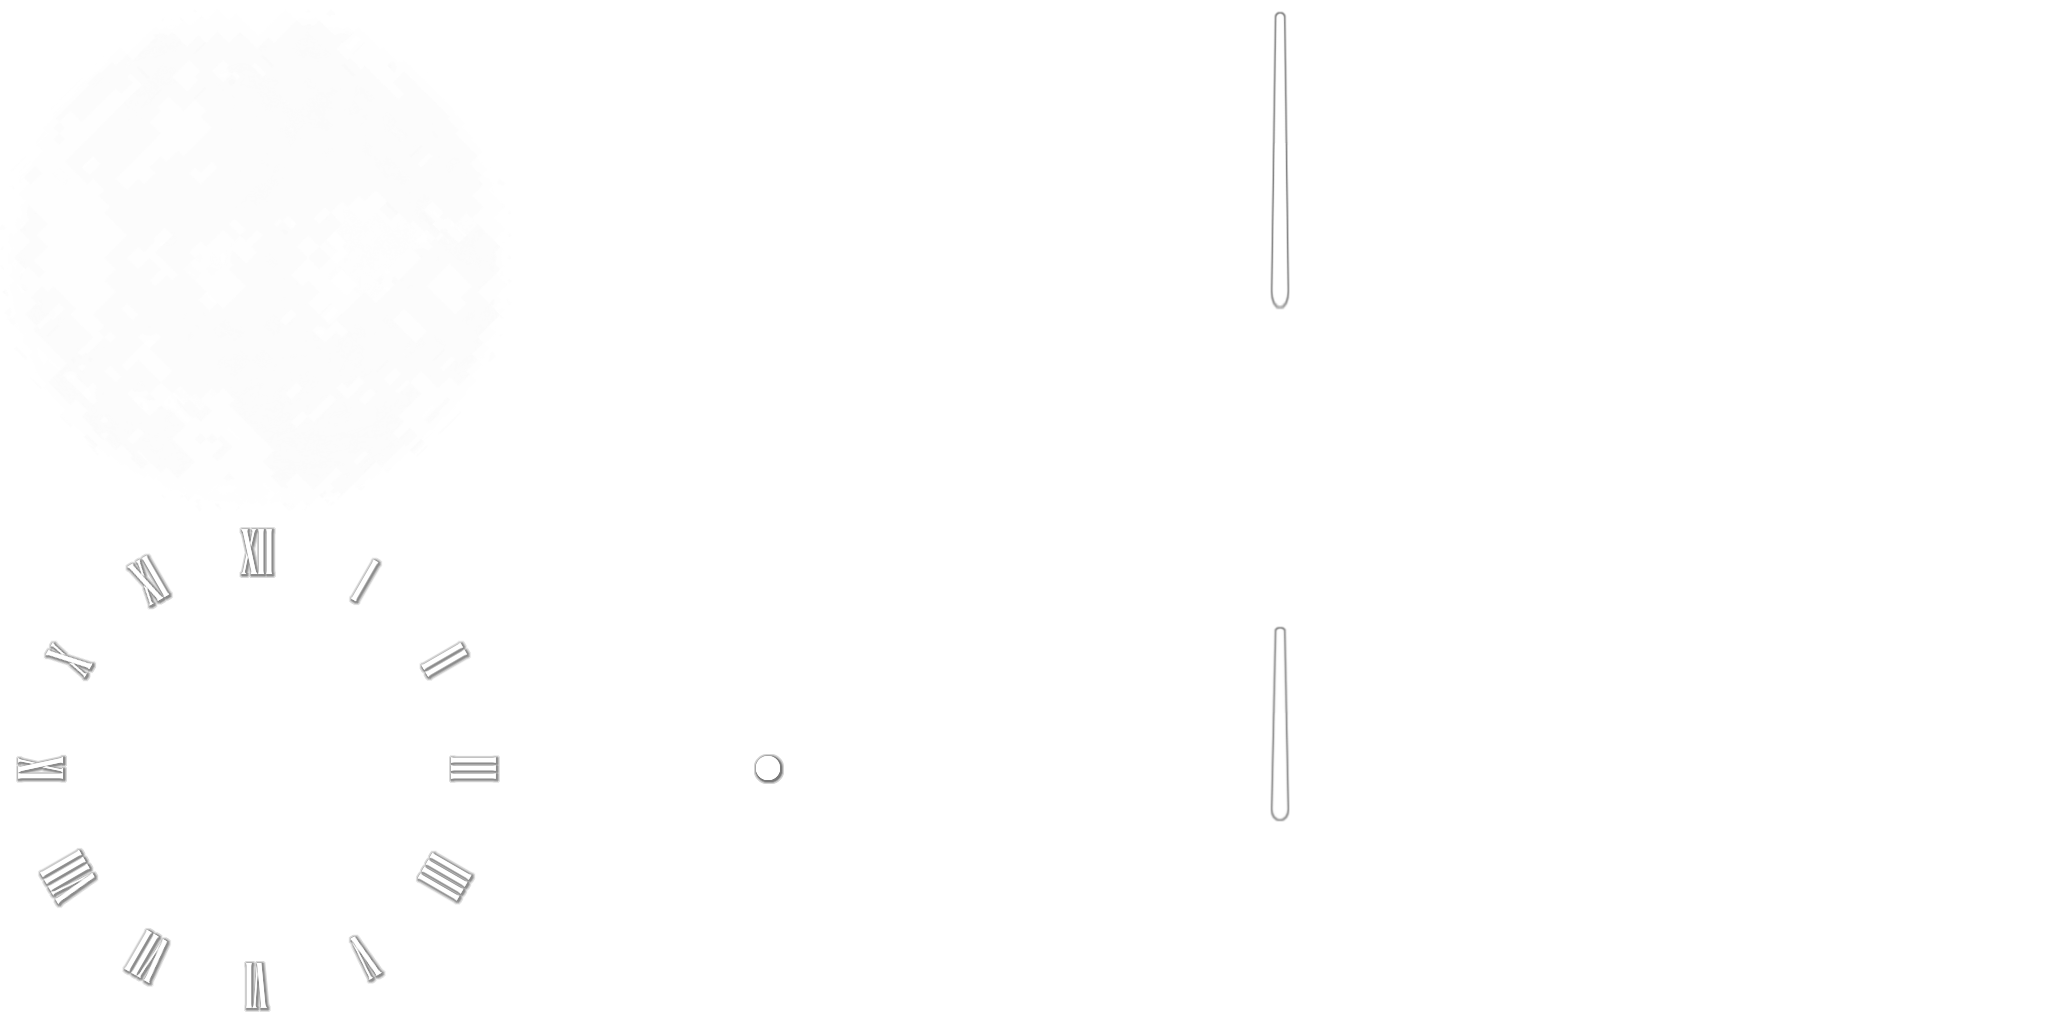
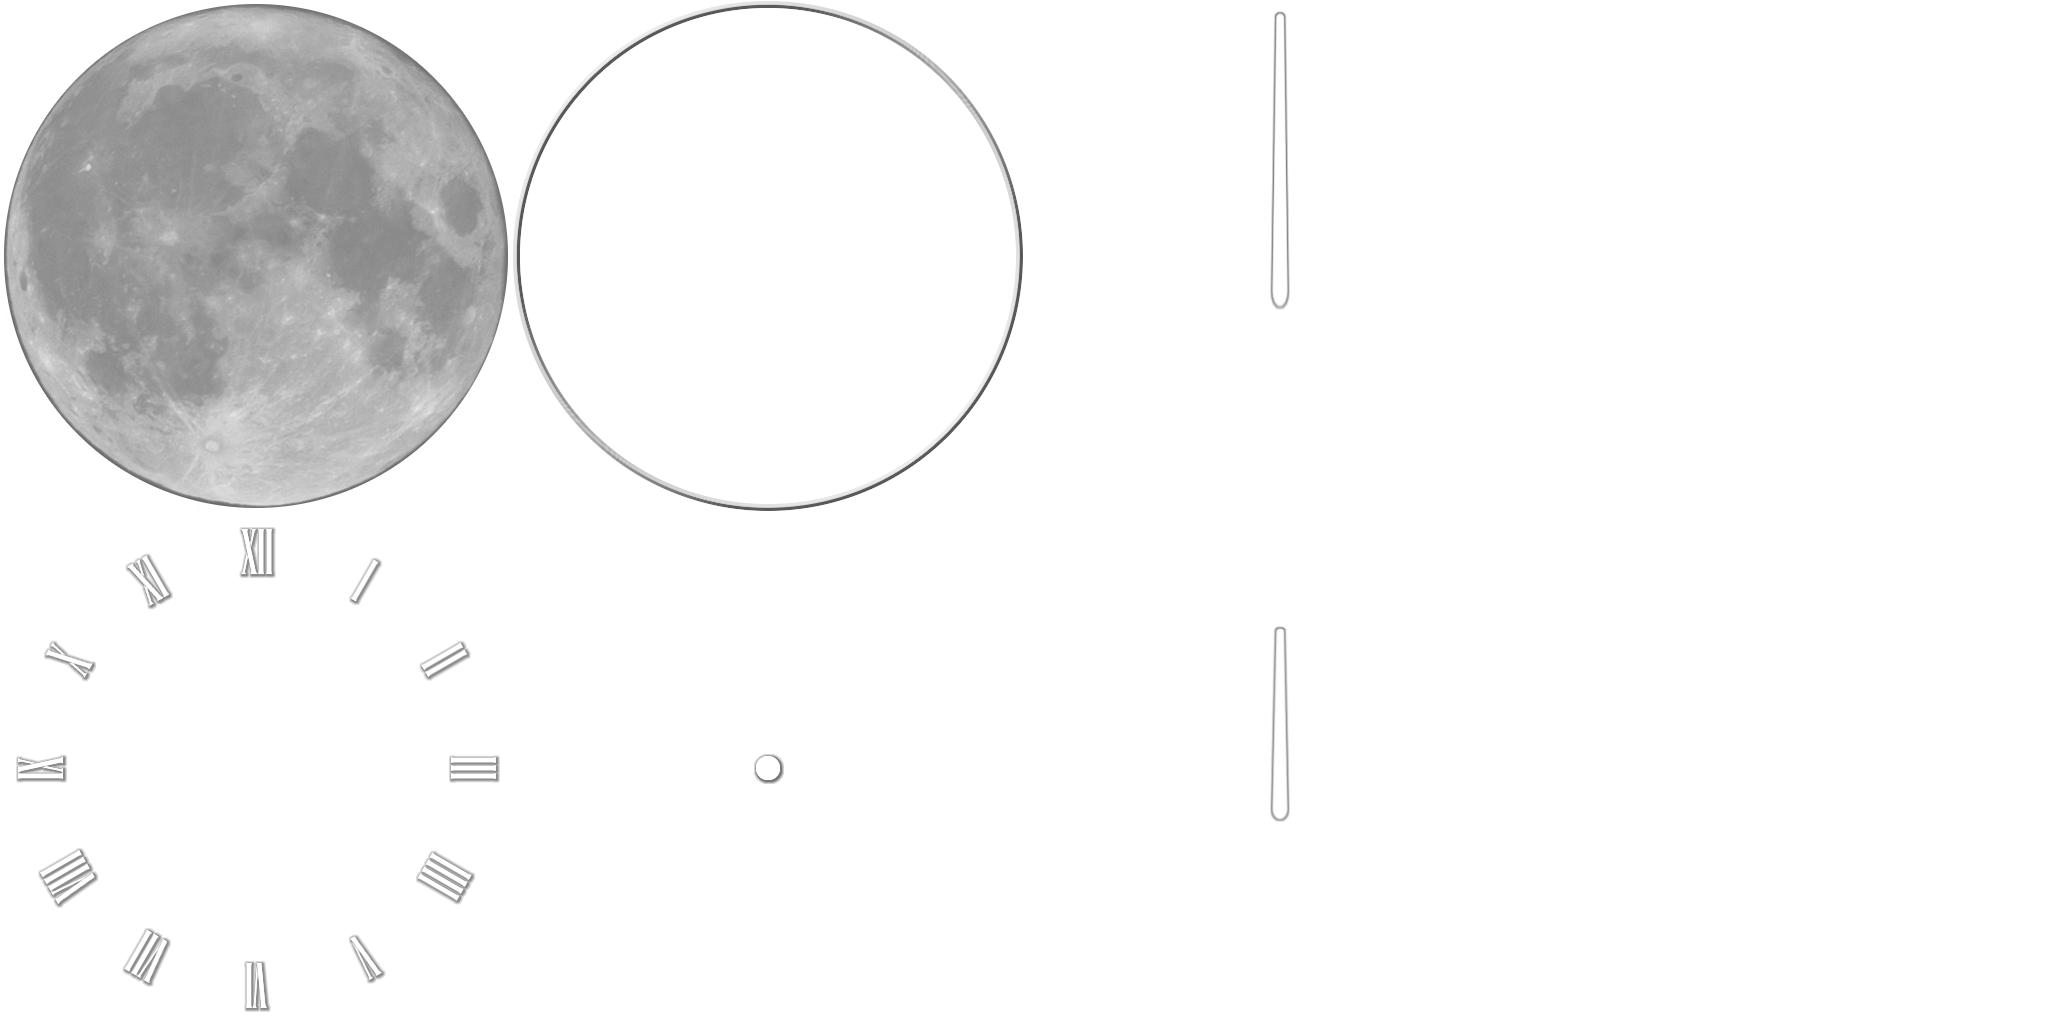
卓の真ん中のスペースに時計を移動

diff --git a/graphic/scenes/table/clock.cpp b/graphic/scenes/table/clock.cpp
@@ -24,13 +24,13 @@ void GameTableScreen::Clock::setClockMatrix(TransformMatrix* matrix, float angle
 	D3DXMatrixMultiply(matrix, matrix, &tmpMatrix);
 	D3DXMatrixTranslation(&tmpMatrix, -clockPosX * Geometry::WindowScale(), -clockPosY * Geometry::WindowScale(), 0);
 	D3DXMatrixMultiply(matrix, matrix, &tmpMatrix);
-	D3DXMatrixTranslation(&tmpMatrix, -256 * Geometry::WindowScale(), -256 * Geometry::WindowScale(), 0);
+	D3DXMatrixTranslation(&tmpMatrix, -((float)clockDiameter / 2.0f) * Geometry::WindowScale(), -((float)clockDiameter / 2.0f) * Geometry::WindowScale(), 0);
 	D3DXMatrixMultiply(matrix, matrix, &tmpMatrix);
 	D3DXMatrixRotationZ(&tmpMatrix, angle);
 	D3DXMatrixMultiply(matrix, matrix, &tmpMatrix);
-	D3DXMatrixTranslation(&tmpMatrix, 256 * Geometry::WindowScale(), 256 * Geometry::WindowScale(), 0);
+	D3DXMatrixTranslation(&tmpMatrix, ((float)clockDiameter / 2.0f) * Geometry::WindowScale(), ((float)clockDiameter / 2.0f) * Geometry::WindowScale(), 0);
 	D3DXMatrixMultiply(matrix, matrix, &tmpMatrix);
-	D3DXMatrixScaling(&tmpMatrix, 0.625f, 0.625f, 0.0f);
+	D3DXMatrixScaling(&tmpMatrix, (float)scaledClockDiameter / (float)clockDiameter, (float)scaledClockDiameter / (float)clockDiameter, 0.0f);
 	D3DXMatrixMultiply(matrix, matrix, &tmpMatrix);
 	D3DXMatrixTranslation(&tmpMatrix, clockPosX * Geometry::WindowScale(), clockPosY * Geometry::WindowScale(), 0);
 	D3DXMatrixMultiply(matrix, matrix, &tmpMatrix);
@@ -43,16 +43,16 @@ void GameTableScreen::Clock::renderMoon() {
 	setClockMatrix(&matrix);
 
 	SpriteRenderer::instantiate(parent->caller->getDevice())->ShowSprite(
-		myTexture, clockPosX, clockPosY, 512, 512, 0xffffffff, &rect, 0, 0, &matrix);
+		myTexture, clockPosX, clockPosY, clockDiameter, clockDiameter, 0xffffffff, &rect, 0, 0, &matrix);
 }
 
 void GameTableScreen::Clock::renderShadow() {
 	struct Vertex {float x, y, z; uint32_t color;};
 
 	const float Top = ((float)clockPosY + 2.0f) * Geometry::WindowScale(),
-		Bottom = ((float)clockPosY + 512.0f * 0.625f - 2.0f) * Geometry::WindowScale(),
+		Bottom = ((float)clockPosY + (float)clockDiameter * ((float)scaledClockDiameter / (float)clockDiameter) - 2.0f) * Geometry::WindowScale(),
 		Left = ((float)clockPosX + 2.0f) * Geometry::WindowScale(),
-		Right = ((float)clockPosX + 512.0f * 0.625f - 2.0f) * Geometry::WindowScale(),
+		Right = ((float)clockPosX + (float)clockDiameter * ((float)scaledClockDiameter / (float)clockDiameter) - 2.0f) * Geometry::WindowScale(),
 		CenterX = (Left + Right) / 2.0f,
 		CenterY = (Top + Bottom) / 2.0f,
 		Radius = CenterX - Left;
@@ -92,7 +92,7 @@ void GameTableScreen::Clock::renderPanel() {
 	setClockMatrix(&matrix);
 
 	SpriteRenderer::instantiate(parent->caller->getDevice())->ShowSprite(
-		myTexture, clockPosX, clockPosY, 512, 512, 0xffffffff, &rect, 0, 0, &matrix);
+		myTexture, clockPosX, clockPosY, clockDiameter, clockDiameter, 0xffffffff, &rect, 0, 0, &matrix);
 }
 
 void GameTableScreen::Clock::renderHour() {
@@ -108,7 +108,7 @@ void GameTableScreen::Clock::renderHour() {
 	setClockMatrix(&matrix, angle);
 
 	SpriteRenderer::instantiate(parent->caller->getDevice())->ShowSprite(
-		myTexture, clockPosX, clockPosY, 512, 512, 0xffffffff, &rect, 0, 0, &matrix);
+		myTexture, clockPosX, clockPosY, clockDiameter, clockDiameter, 0xffffffff, &rect, 0, 0, &matrix);
 }
 
 void GameTableScreen::Clock::renderMinute() {
@@ -124,7 +124,7 @@ void GameTableScreen::Clock::renderMinute() {
 	setClockMatrix(&matrix, angle);
 
 	SpriteRenderer::instantiate(parent->caller->getDevice())->ShowSprite(
-		myTexture, clockPosX, clockPosY, 512, 512, 0xffffffff, &rect, 0, 0, &matrix);
+		myTexture, clockPosX, clockPosY, clockDiameter, clockDiameter, 0xffffffff, &rect, 0, 0, &matrix);
 }
 
 void GameTableScreen::Clock::renderPin() {
@@ -134,12 +134,23 @@ void GameTableScreen::Clock::renderPin() {
 	setClockMatrix(&matrix);
 
 	SpriteRenderer::instantiate(parent->caller->getDevice())->ShowSprite(
-		myTexture, clockPosX, clockPosY, 512, 512, 0xffffffff, &rect, 0, 0, &matrix);
+		myTexture, clockPosX, clockPosY, clockDiameter, clockDiameter, 0xffffffff, &rect, 0, 0, &matrix);
+}
+
+void GameTableScreen::Clock::renderFrame() {
+	RECT rect = {512, 0, 1024, 512};
+
+	TransformMatrix matrix;
+	setClockMatrix(&matrix);
+
+	SpriteRenderer::instantiate(parent->caller->getDevice())->ShowSprite(
+		myTexture, clockPosX, clockPosY, clockDiameter, clockDiameter, 0xffffffff, &rect, 0, 0, &matrix);
 }
 
 void GameTableScreen::Clock::Render() {
 	renderMoon(); renderShadow();
 	renderPanel(); renderHour(); renderMinute(); renderPin();
+	renderFrame();
 }
 
 }

diff --git a/graphic/scenes/table.cpp b/graphic/scenes/table.cpp
@@ -163,6 +163,7 @@ void GameTableScreen::RenderTable() {
 	SpriteRenderer::instantiate(caller->getDevice())->ShowSprite(tBaize, 0, 0, Geometry::BaseSize, Geometry::BaseSize);
 	SpriteRenderer::instantiate(caller->getDevice())->ShowSprite(tBorder, 0, 0, Geometry::BaseSize, Geometry::BaseSize);
 	Reconstruct(GameStatus::retrGameStat());
+	clockPanel->Render();
 	richibouReconst->Render();
 	diceReconst->Render();
 	trayReconst->Render();
@@ -173,7 +174,6 @@ void GameTableScreen::RenderTable() {
 	gariReconst->Render();
 	buttonReconst->Render();
 	tileTipReconst->Render();
-	clockPanel->Render();
 }
 
 void GameTableScreen::RenderSideBar() {

diff --git a/graphic/scenes/table/clock.h b/graphic/scenes/table/clock.h
@@ -12,8 +12,10 @@ private:
 	TexturePtr myTexture;
 	void setClockMatrix(TransformMatrix* matrix, float angle = 0.0f);
 private:
-	static const int clockPosX = Geometry::BaseSize + 24;
-	static const int clockPosY = 144;
+	static const int clockPosX = 460;
+	static const int clockPosY = 460;
+	static const unsigned clockDiameter = 512u;
+	static const unsigned scaledClockDiameter = 160u;
 private:
 	void renderMoon();
 	void renderShadow();
@@ -21,6 +23,7 @@ private:
 	void renderHour();
 	void renderMinute();
 	void renderPin();
+	void renderFrame();
 public:
 	Clock(GameTableScreen* caller);
 	~Clock();
